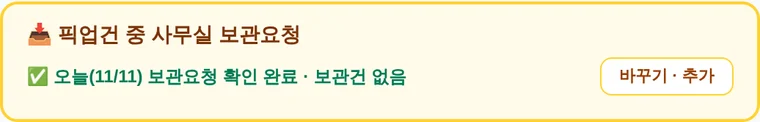
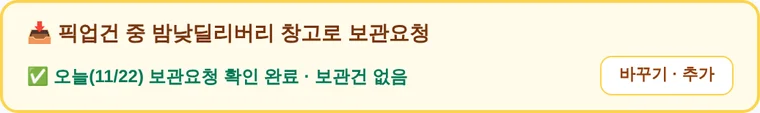
보관요청 이름 통일: 설명서·공지·AI 안내자료·관리자 목록/엑셀까지 '밤낮딜리버리 창고로 보관요청'
Claude-Session: https://claude.ai/code/session_012XsoevFdmRW4wjmBS956R7

diff --git a/index.html b/index.html
@@ -223,7 +223,7 @@
             <!-- 승인 대기 / 정지 계정 안내 -->
             <div id="seller-status-notice" class="hidden px-4 py-3 rounded-xl border text-sm font-medium flex items-start gap-2"></div>
 
-            <!-- 택배접수 종류 선택: 매장/사무실(사입대행) · 고객풀필먼트(고객배송대행) + 오른쪽 사무실 보관요청(모든 접수 필수) -->
+            <!-- 택배접수 종류 선택: 매장/사무실(사입대행) · 고객풀필먼트(고객배송대행) + 오른쪽 밤낮딜리버리 창고로 보관요청(모든 접수 필수) -->
             <div class="seller-work grid grid-cols-2 lg:grid-cols-[1fr_1fr_1.5fr] gap-2 sm:gap-3 items-stretch">
                 <button type="button" id="mode-card-store" onclick="switchSellerMode('store')" class="mode-card text-left px-3 py-2.5 sm:px-4 sm:py-3 rounded-xl border-2 transition">
                     <div class="text-sm sm:text-base font-black text-slate-900">🏬 매장/사무실 택배접수</div>
@@ -234,7 +234,7 @@
                     <div class="hidden sm:block text-[11px] font-bold text-slate-500">고객배송대행 · 단건 / 엑셀 일괄 접수</div>
                 </button>
 
-                <!-- 픽업건 중 사무실 보관요청 (모든 택배접수 시 필수 선택) -->
+                <!-- 픽업건 중 밤낮딜리버리 창고로 보관요청 (모든 택배접수 시 필수 선택) -->
                 <div id="keep-request-box" class="col-span-2 lg:col-span-1 bg-amber-50 border-2 border-amber-300 rounded-xl px-4 py-2.5 space-y-1.5">
                     <div class="flex items-center gap-2 flex-wrap">
                         <span class="text-sm font-black text-amber-900">📥 픽업건 중 밤낮딜리버리 창고로 보관요청</span>
@@ -660,7 +660,7 @@
                             <option value="store">매장/사무실 (전체)</option>
                             <option value="store_post">매장 · 우체국택배</option>
                             <option value="store_sameday">매장 · 당일택배</option>
-                            <option value="keep">사무실 보관요청</option>
+                            <option value="keep">밤낮딜리버리 창고로 보관요청</option>
                         </select>
                         <select id="history-status" class="px-2 py-1.5 border rounded-lg text-xs bg-white">
                             <option value="all">접수상태 전체</option>
@@ -976,7 +976,7 @@
                                 <option value="store">매장/사무실 (전체)</option>
                                 <option value="store_post">매장 · 우체국택배</option>
                                 <option value="store_sameday">매장 · 당일택배</option>
-                                <option value="keep">사무실 보관요청</option>
+                                <option value="keep">밤낮딜리버리 창고로 보관요청</option>
                             </select>
                             <span class="ship-ui text-xs font-bold text-slate-600 ml-2">출고:</span>
                             <select id="admin-ship-filter" class="ship-ui px-3 py-1.5 border rounded-lg text-xs font-medium focus:outline-none">
@@ -3613,7 +3613,7 @@
             renderSellerTable();
         }
 
-        // ---------------- 픽업건 중 사무실 보관요청 (모든 택배접수 전에 [접수] 필수) ----------------
+        // ---------------- 픽업건 중 밤낮딜리버리 창고로 보관요청 (모든 택배접수 전에 [접수] 필수) ----------------
         // 옵션을 고르고 [접수] 버튼까지 눌러야 접수됩니다.
         //  1. 보관건 있습니다 → 메모와 함께 '보관요청' 건(order_type = keep)으로 접수 목록에 올라갑니다.
         //  2. 없습니다 → 확인만 하고 목록에는 올라가지 않습니다. (예전 '3. 이미 접수했습니다'는 2026-11-19 대표님 요청으로 뺌)
@@ -3699,7 +3699,7 @@
             }
             const checked = document.querySelector('input[name="keep-request"]:checked');
             if (!checked) {
-                alert('사무실 보관요청 버튼을 체크해주세요.');
+                alert('밤낮딜리버리 창고로 보관요청 버튼을 체크해주세요.');
                 return;
             }
             const choice = checked.value;
@@ -3726,7 +3726,7 @@
                 cs_phone: formatPhone(currentSellerAccount.phone || ''),
                 recipient: company,
                 phone: formatPhone(currentSellerAccount.phone || '') || '-',
-                address: '사무실 보관요청',
+                address: '밤낮딜리버리 창고로 보관요청',
                 product: memo,
                 keep_request: '있음',
                 keep_memo: memo,
@@ -3748,7 +3748,7 @@
             saveKeepCheck('있음');
             document.getElementById('keep-memo').value = '';
             setKeepStatus(`✅ ${p.hh}:${p.mm} 보관요청 접수 완료 (NO. ${sellerNoLabel(saved)})`, true);
-            alert(`사무실 보관요청이 접수되었습니다. (NO. ${sellerNoLabel(saved)})\n아래 [내 접수 주문목록]에서 접수된 내용을 한 번 확인해 주세요.`);
+            alert(`밤낮딜리버리 창고로 보관요청이 접수되었습니다. (NO. ${sellerNoLabel(saved)})\n아래 [내 접수 주문목록]에서 접수된 내용을 한 번 확인해 주세요.`);
             renderSellerTable();
         }
 
@@ -3759,7 +3759,7 @@
             const checked = document.querySelector('input[name="keep-request"]:checked');
             alert(checked
                 ? '[픽업건 중 밤낮딜리버리 창고로 보관요청]의 [접수] 버튼을 먼저 눌러주세요.'
-                : '사무실 보관요청 버튼을 체크하고 [접수] 버튼을 눌러주세요.');
+                : '밤낮딜리버리 창고로 보관요청 버튼을 체크하고 [접수] 버튼을 눌러주세요.');
             document.getElementById('keep-request-box').scrollIntoView({ behavior: 'smooth', block: 'center' });
             return null;
         }
@@ -5239,7 +5239,7 @@
                     </td>
                     <td class="p-3 whitespace-nowrap"><span class="px-2 py-1 rounded-lg bg-slate-900 text-white text-[11px] font-black">${escapeHtml(o.seller_company || '-')}</span></td>
                     <td class="p-3 font-bold text-slate-900 whitespace-nowrap">${escapeHtml(o.sender_name || `밤낮딜리버리(${o.seller_company})`)}</td>
-                    <td class="ship-ui p-3 min-w-[170px]">${isKeepOrder(o) ? '<span class="text-[11px] font-bold text-amber-700">사무실 보관요청</span>' : `
+                    <td class="ship-ui p-3 min-w-[170px]">${isKeepOrder(o) ? '<span class="text-[11px] font-bold text-amber-700">밤낮딜리버리 창고로 보관요청</span>' : `
                         <select data-id="${id}" onchange="setTrackingDraft(this.dataset.id, 'courier', this.value)" class="admin-courier courier-select w-full px-2 py-1 border rounded text-[11px] bg-white">${courierOptionsHtml(draftT.courier ?? o.courier)}</select>
                         <input type="text" data-id="${id}" value="${escapeHtml(trackingValue)}" placeholder="송장번호 입력" title="송장번호 입력 후 Enter 를 누르면 바로 출고완료됩니다"
                             oninput="setTrackingDraft(this.dataset.id, 'tracking', this.value)"
@@ -5340,7 +5340,7 @@
             const warn = [];
             if (sellers.size > 1) warn.push('다른 업체(셀러)의 주문이 섞여 있어 합배송으로 묶을 수 없습니다.');
             else if (people.size > 1) warn.push('받는분 이름·연락처·주소가 서로 다른 주문이 있습니다. 같은 분에게 가는지 꼭 확인해 주세요.');
-            if (blocked.length) warn.push('출고완료 또는 사무실 보관요청 건이 있어 바꿀 수 없습니다. 체크를 빼고 다시 해주세요.');
+            if (blocked.length) warn.push('출고완료 또는 밤낮딜리버리 창고로 보관요청 건이 있어 바꿀 수 없습니다. 체크를 빼고 다시 해주세요.');
             const w = document.getElementById('combine-modal-warn');
             w.innerText = warn.join('\n');
             w.classList.toggle('hidden', !warn.length);
@@ -7067,7 +7067,7 @@
 
         // 관리자: 현재 필터 기준 접수건 엑셀 (8개 시트)
         //  1 풀필먼트 접수건(풀필) / 2 일반택배 접수건(일반) / 3 당일택배 접수건(당택)  ← 원본 양식 그대로
-        //  4 사무실 보관요청건(킵) / 5 셀러별 접수유형 / 6 풀필도소매명 / 7 킵출고리스트 / 8 밤낮전달메세지리스트
+        //  4 밤낮딜리버리 창고로 보관요청건(킵) / 5 셀러별 접수유형 / 6 풀필도소매명 / 7 킵출고리스트 / 8 밤낮전달메세지리스트
         function buildAdminWorkbookSheets(list, baseFormXml) {
             const groups = getOrderGroups();
             const fulfill = list.filter(o => orderTypeOf(o) === 'fulfillment');
@@ -7075,7 +7075,7 @@
             const sameday = list.filter(o => orderTypeOf(o) === 'store_sameday');
 
             const shipHeaders = SHOW_SHIPPING_UI ? ['상품 출고상태', '주문 출고상태', '택배사', '송장번호'] : [];
-            const extraHeaders = [...shipHeaders, '셀러 가입상호', '접수일시', '처리상태', '관리자 접수시간', '사무실 보관요청', '보관요청 메모', '화면 주문번호'];
+            const extraHeaders = [...shipHeaders, '셀러 가입상호', '접수일시', '처리상태', '관리자 접수시간', '밤낮딜리버리 창고로 보관요청', '보관요청 메모', '화면 주문번호'];
             const extraWidths = [...(SHOW_SHIPPING_UI ? [14, 18, 16, 18] : []), 16, 18, 12, 18, 14, 36, 14];
             // 엑셀 NO 는 합배송 15-1, 15-2 대신 1, 2, 3 숫자로 (시트마다 작은 주문번호부터 1번).
             //   화면에 보이는 주문번호(15-1 등)는 맨 끝 '화면 주문번호' 칸에 남깁니다.
@@ -7115,7 +7115,7 @@
               });
             };
 
-            // 4. 사무실 보관요청건: 같은 셀러 · 같은 날 · 같은 메모는 한 줄로
+            // 4. 밤낮딜리버리 창고로 보관요청건: 같은 셀러 · 같은 날 · 같은 메모는 한 줄로
             const keepMap = new Map();
             list.filter(o => o.keep_request === '있음' && o.keep_memo).forEach(o => {
                 const day = o.created_at ? kstDateString(new Date(o.created_at)) : '';
@@ -7168,7 +7168,7 @@
                 { name: '풀필먼트 접수건 (풀필)', xml: buildFormSheetXml(baseFormXml, formRows(fulfill), extraHeaders, extraWidths, true) },
                 { name: '일반택배 접수건 (일반)', xml: buildFormSheetXml(baseFormXml, formRows(post), extraHeaders, extraWidths, false) },
                 { name: '당일택배 접수건 (당택)', xml: buildFormSheetXml(baseFormXml, formRows(sameday), extraHeaders, extraWidths, false) },
-                { name: '사무실 보관 요청건 (킵)', xml: buildTableSheetXml(['셀러 가입상호', '보내는사람 상호명', '보관요청 메모', '접수일', '접수시간', '일반택배', '당일택배', '풀필먼트'], keepRows, [16, 18, 50, 12, 10, 10, 10, 10]) },
+                { name: '밤낮딜리버리 창고로 보관 요청건 (킵)', xml: buildTableSheetXml(['셀러 가입상호', '보내는사람 상호명', '보관요청 메모', '접수일', '접수시간', '일반택배', '당일택배', '풀필먼트'], keepRows, [16, 18, 50, 12, 10, 10, 10, 10]) },
                 { name: '셀러별 접수유형', xml: buildTableSheetXml(['셀러 가입상호', '접수유형', '풀필 상품수', '일반 상품수', '당택 상품수', '킵 요청수'], typeRows, [16, 30, 12, 12, 12, 10]) },
                 { name: '풀필도소매명', xml: buildTableSheetXml(retailHeaders, fulfill.map(retailRow), retailWidths) },
                 { name: '풀필도소매명(업체별)', xml: buildGroupedRetailSheetXml(fulfill) },

diff --git a/guide/index.html b/guide/index.html
@@ -331,8 +331,8 @@ body.route-f .feat.on{display:block}
 
 <!-- keep box: 4·5 공통 -->
 <section class="ch" id="keep">
-  <div class="chhead"><div class="num">!</div><div><h2>택배 접수 전에 꼭: 사무실 보관요청</h2><p>4장 택배접수를 하기 전에 이 노란 칸부터 골라야 접수가 됩니다. <b>하루에 한 번만</b> 하면 돼요.</p></div></div>
-  <figure class="narrow"><img src="img/keep.webp" alt="픽업건 중 사무실 보관요청 칸. 하루 한 번 필수 체크. 보관건 있습니다, 보관건 없습니다 중 고르고 접수 버튼" loading="lazy"><figcaption>오늘 처음 들어왔을 때: 택배접수 화면 오른쪽 위의 노란 칸</figcaption></figure>
+  <div class="chhead"><div class="num">!</div><div><h2>택배 접수 전에 꼭: 밤낮딜리버리 창고로 보관요청</h2><p>4장 택배접수를 하기 전에 이 노란 칸부터 골라야 접수가 됩니다. <b>하루에 한 번만</b> 하면 돼요.</p></div></div>
+  <figure class="narrow"><img src="img/keep.webp" alt="픽업건 중 밤낮딜리버리 창고로 보관요청 칸. 하루 한 번 필수 체크. 보관건 있습니다, 보관건 없습니다 중 고르고 접수 버튼" loading="lazy"><figcaption>오늘 처음 들어왔을 때: 택배접수 화면 오른쪽 위의 노란 칸</figcaption></figure>
   <ul>
     <li><b>1. 보관건 있습니다</b>: 오늘 픽업한 물건 중 보내지 말고 사무실에 보관(킵)할 것이 있을 때. 아래 칸에 무엇을 보관할지 적고 <b>[접수]</b>를 누르세요. 예) 풀필 외 남은 재고 킵해주세요. 접수한 뒤에는 아래 <b>내 접수 주문목록</b>에서 접수된 내용을 한 번 확인해 주세요.</li>
     <li><b>2. 보관건 없습니다</b>: 보관할 것이 없을 때. 고르고 <b>[접수]</b>를 누르세요.</li>
@@ -386,7 +386,7 @@ body.route-f .feat.on{display:block}
   <dl class="terms">
     <dt>(합)</dt><dd>한 손님이 여러 개를 샀을 때, <b>부분출고 없이 다 모아서 한 번에</b> 보내 달라는 표시입니다. 이제 상품명에 직접 적지 않고 <b>[(합) 합배송]</b>에 체크하면 상품명 앞에 저절로 붙어요.</dd>
     <dt>(킵)</dt><dd>사무실에 맡긴 재고에서 먼저 내보낸다는 표시입니다. 맡긴 재고가 있으면 <b>저절로 체크·표시</b>돼요. 재고로 보내지 않을 주문만 체크를 빼 주세요.</dd>
-    <dt>킵건 / 고객반품건</dt><dd>사무실 보관 물건이나 손님이 반품한 물건을 다시 보낼 때는 도매거래처명 칸에 "킵건" 또는 "고객반품건"이라고 적어주세요.</dd>
+    <dt>킵건 / 고객반품건</dt><dd>밤낮딜리버리 창고에 보관한 물건이나 손님이 반품한 물건을 다시 보낼 때는 도매거래처명 칸에 "킵건" 또는 "고객반품건"이라고 적어주세요.</dd>
   </dl>
   <div class="note tip"><p>💡 자주 보내는 손님은 주소 칸 아래 <b>[+ 지금 입력한 주소 저장]</b>을 눌러 두면, 다음부터 <b>[주소록]</b>에서 한 번에 불러올 수 있어요.</p></div>
 
@@ -463,7 +463,7 @@ body.route-f .feat.on{display:block}
 <section class="ch faq" id="faq">
   <div class="chhead"><div class="num">?</div><div><h2>자주 묻는 질문</h2></div></div>
   <details><summary>가입했는데 접수 버튼을 누르면 안 돼요.</summary><p>아직 승인 전일 수 있어요. 카톡으로 "회원가입 했습니다 + 상호 + 연락처"를 보내셨는지 확인해 주세요. 승인 후에는 화면을 새로고침하세요.</p></details>
-  <details><summary>주문 등록하기를 눌렀는데 "사무실 보관요청 버튼을 체크하고 [접수] 버튼을 눌러주세요"가 떠요.</summary><p>오늘 처음 택배접수를 하기 전에 노란 <b>사무실 보관요청</b> 칸에서 하나를 고르고 [접수]를 먼저 눌러주세요. 하루에 한 번만 하면 되고, 그날은 다시 묻지 않아요.</p></details>
+  <details><summary>주문 등록하기를 눌렀는데 "밤낮딜리버리 창고로 보관요청 버튼을 체크하고 [접수] 버튼을 눌러주세요"가 떠요.</summary><p>오늘 처음 택배접수를 하기 전에 노란 <b>밤낮딜리버리 창고로 보관요청</b> 칸에서 하나를 고르고 [접수]를 먼저 눌러주세요. 하루에 한 번만 하면 되고, 그날은 다시 묻지 않아요.</p></details>
   <details><summary>접수한 주문을 고치고 싶어요.</summary><p>내 접수 주문목록에서 표를 옆으로 밀어 [수정]을 누르세요. 마감(접수완료)됐거나 출고된 주문은 고칠 수 없으니 카톡으로 말씀해 주세요.</p></details>
   <details><summary>대납금은 언제 입금하나요?</summary><p>픽업요청을 넣을 때 <b>미리</b> 입금해 주세요. 신한은행 110-359-193710 이현재. 나머지 서비스 비용은 출고 후 정산서로 보내드립니다.</p></details>
   <details><summary>[이대로 주문접수] 버튼이 회색이라 안 눌려요.</summary><p>버튼 옆 빨간 상자에 이유가 나옵니다. 빨간 줄의 빈 칸(연락처·도매처 등)을 채우거나 [빼기]를 누르면 버튼이 켜집니다.</p></details>

diff --git a/notice/notices.js b/notice/notices.js
@@ -69,10 +69,10 @@ window.BAMNAT_NOTICES = [
     id: '2026-11-21-keep-store',
     date: '2026-11-21',
     tag: '모든 업체',
-    title: '📦 사무실 보관요청과 매장·사무실 택배 접수 안내',
+    title: '📦 밤낮딜리버리 창고로 보관요청과 매장·사무실 택배 접수 안내',
     summary: '택배접수 전에 노란 칸에서 보관건 있음/없음을 하루 한 번 골라 주세요. 남는 상품은 매장·사무실 택배로 받으실 수 있어요.',
     body: [
-      '<b>사무실 보관요청</b>: 택배접수 화면 오른쪽 위 노란 칸에서 <b>1. 보관건 있습니다</b>(보관할 내용 적기) 또는 <b>2. 보관건 없습니다</b>를 고르고 [접수]를 누르세요. 하루에 한 번만 고르면 다른 컴퓨터·휴대폰에서도 다시 고르지 않아도 돼요.',
+      '<b>밤낮딜리버리 창고로 보관요청</b>: 택배접수 화면 오른쪽 위 노란 칸에서 <b>1. 보관건 있습니다</b>(보관할 내용 적기) 또는 <b>2. 보관건 없습니다</b>를 고르고 [접수]를 누르세요. 하루에 한 번만 고르면 다른 컴퓨터·휴대폰에서도 다시 고르지 않아도 돼요.',
       '<b>매장·사무실 택배 접수</b>: 로그인 후 [🏬 매장/사무실 택배접수]를 누르고 우체국택배나 당일택배를 고른 뒤 받는 주소를 적으면 돼요. 상품명은 비워 둬도 돼요. 예) "풀필먼트 출고건을 제외하고 나머지 상품을 보내주세요"',
       '지난번과 같은 주소라면 주황 <b>[최근 접수내용 재등록]</b>을 누르면 한 번에 채워져요.',
       '<a href="/guide/#keep" target="_blank" style="color:#4f46e5;font-weight:800">📖 이용설명서에서 그림으로 자세히 보기 →</a>'

diff --git a/worker/knowledge.js b/worker/knowledge.js
@@ -56,7 +56,7 @@ export const KNOWLEDGE = `
 ## 사입팀 픽업요청
 - 로그인 후 맨 위 주황색 [사입팀 픽업요청] → 주문자 정보(보통 자동), 픽업할 매장정보(매장 상호, 위치 예: 디오트 2층 B-123, 매장 연락처), 대납·대납미송 유무, 사입팀 요청사항 → [픽업요청 접수]. 매장이 여러 곳이면 한 곳씩 따로 접수.
 - 아래 "내 픽업요청 내역"(최근 30건): [취소]는 사입팀 확인 전(접수됨)까지만, 그 뒤는 카톡. [재등록]은 예전 내용을 그대로 채워 줌.
-## 사무실 보관요청 (택배 접수 전 하루 한 번)
+## 밤낮딜리버리 창고로 보관요청 (택배 접수 전 하루 한 번)
 - 택배접수 화면 오른쪽 위 노란 칸에서 1. 보관건 있습니다(보관할 것 적기) / 2. 보관건 없습니다 중 하나 고르고 [접수]. 보관요청 접수 후에는 내 접수 주문목록에서 접수된 내용을 한 번 확인. 그날은 다시 안 물어봄(밤 12시 지나면 다시).
 ## 매장/사무실로 받기 (택배 접수)
 - 첫 화면 [🏬 매장/사무실 택배접수] → 우체국택배 또는 당일택배 선택([당일택배 가능지역 조회]로 확인) → 받는 사람(내 상호·연락처·주소) → [주문 등록하기]. 상품명은 비워도 됨(그날 픽업한 물건을 한꺼번에 보냄). [최근 접수내용 재등록]으로 한 번에 채우기.

diff --git a/tests/e2e-accepted-time.js b/tests/e2e-accepted-time.js
@@ -154,7 +154,7 @@ fs.mkdirSync(path.join(__dirname, 'out'), { recursive: true });
   fs.writeFileSync(path.join(__dirname, 'out', 'accepted.json'), JSON.stringify(aoa));
   const ci = head.indexOf('관리자 접수시간');
   console.log(head.slice(14).join(' | '));
-  check('관리자 접수시간 칸이 처리상태 바로 뒤', ci > 0 && head[ci - 1] === '처리상태' && head[ci + 1] === '사무실 보관요청', head.slice(14).join(','));
+  check('관리자 접수시간 칸이 처리상태 바로 뒤', ci > 0 && head[ci - 1] === '처리상태' && head[ci + 1] === '밤낮딜리버리 창고로 보관요청', head.slice(14).join(','));
   const byName = n => aoa.find(r => r[3] === n) || [];
   check('접수완료 건: 관리자 누른 시간(한국시간)', byName('홍길동')[ci] === '2026-11-17 03:05', byName('홍길동')[ci]);
   check('접수완료인데 예전 주문(시간 없음): 빈칸', byName('세번째')[ci] === '', byName('세번째')[ci]);
